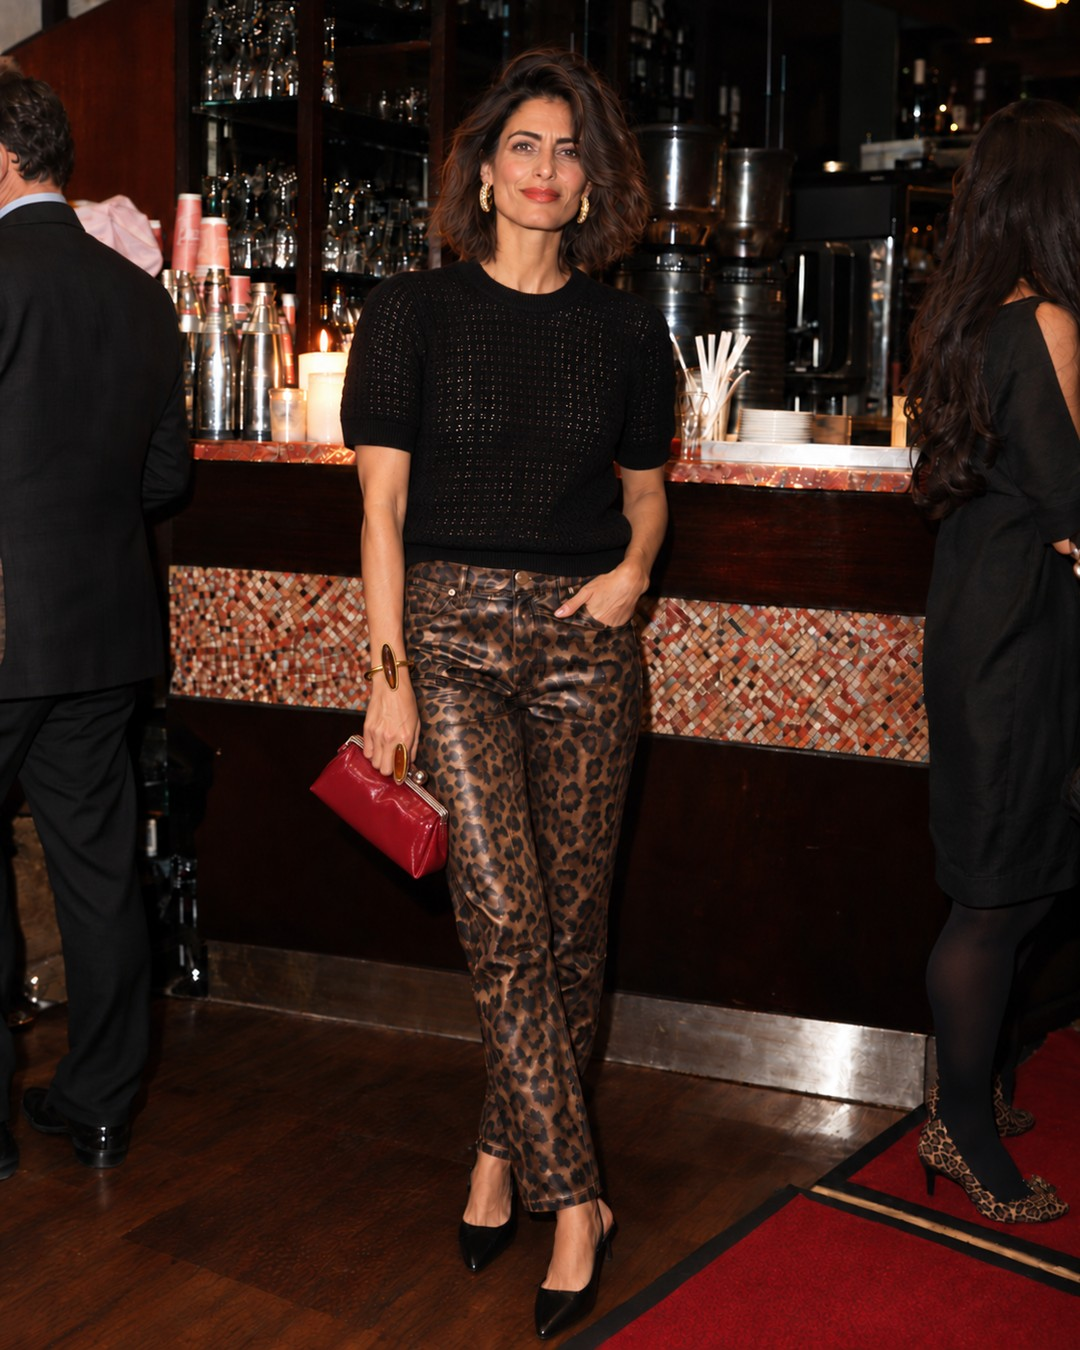
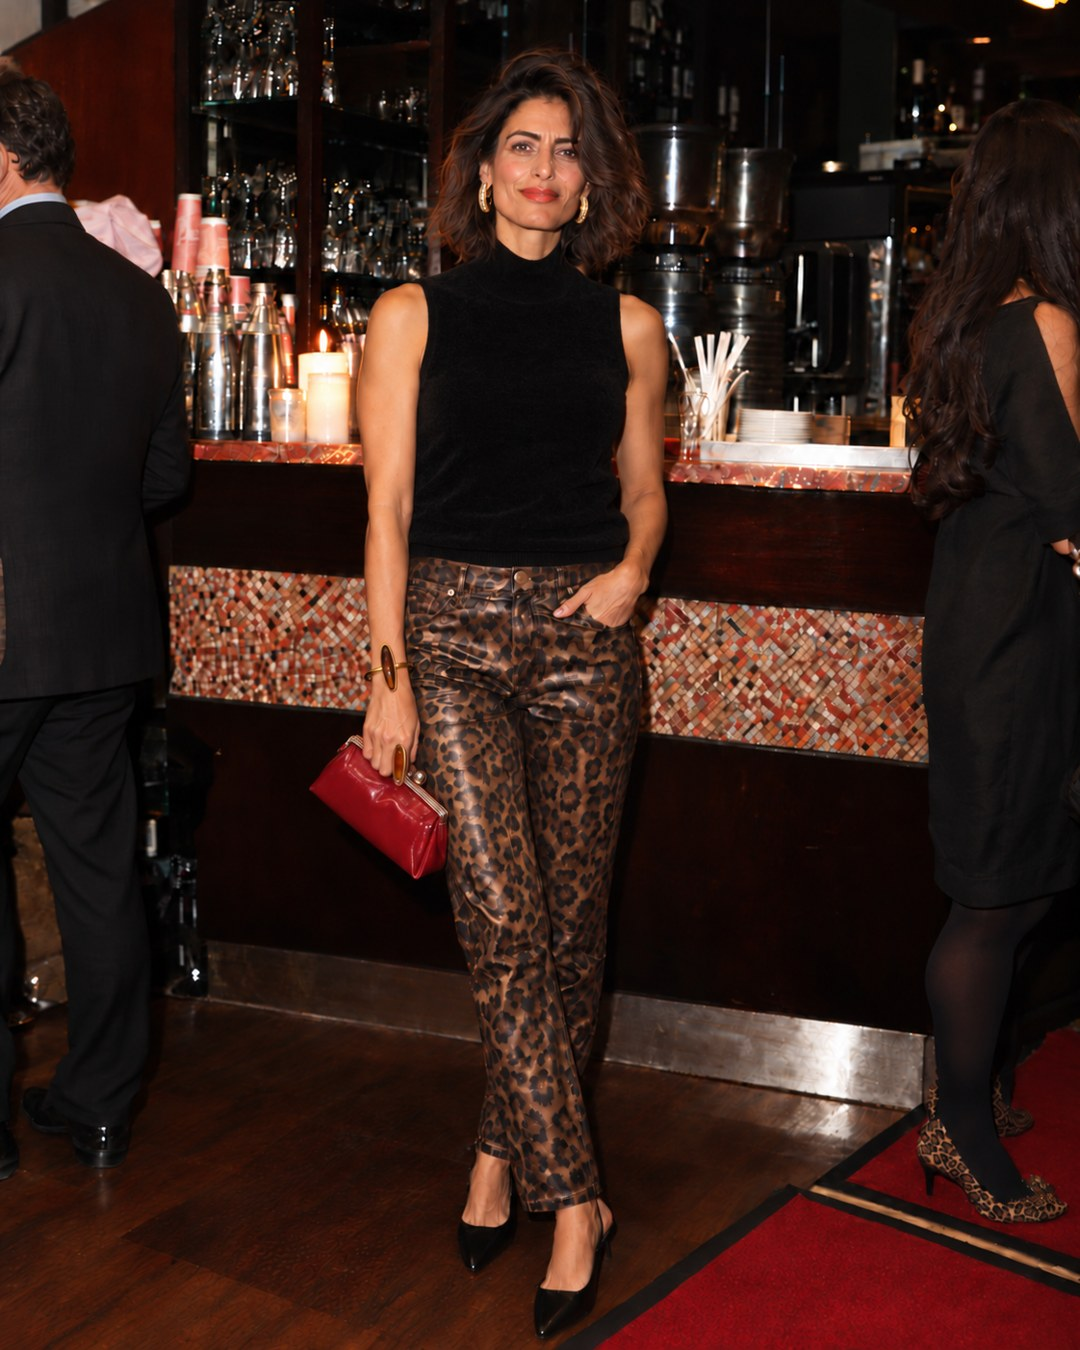
Leopard look: COS chenille top replaces Sfera

diff --git a/index.html b/index.html
@@ -59,7 +59,7 @@ const LOOKS = [
   {id:"leopard", kicker:"Look", title:"Leopard after dark", date:"12 Oct 2026", img:"leopard.jpg",
    items:[
     {b:"Zara", n:"Z1975 straight leopard jeans", p:"€39.95", u:"https://www.zara.com/es/es/jeans-z1975-straight-tiro-medio-estampado-animal-p07147225.html"},
-    {b:"Sfera", n:"Open-knit short-sleeve jumper, black", p:"€12.75", u:"https://www.elcorteingles.es/moda-mujer/A200974997-negro-pr-jersey-calado-manga-corta/"},
+    {b:"COS", n:"Chenille sleeveless high-neck top, black", p:"€79", u:"https://www.cos.com/es-es/women/womenswear/knitwear/rollneckjumpers/product/chenille-funnel-neck-vest-black-1321323001"},
     {b:"Lodi", n:"Leather slingback heels, black", p:"€159", u:"https://www.elcorteingles.es/moda-mujer/MP_0262071_KLINIC-negro-pr-zapatos-de-salon-destalonados-de-mujer-en-piel-con-tacon/"},
     {b:"Parfois", n:"Red frame clutch", p:"€29.99", u:"https://www.elcorteingles.es/moda-mujer/MP_0109561_251674BK-rojo-pr-bolso-de-fiesta-convertible-a-bandolera-estilo-clutch-con-cierre-de-boton-en-liso/"},
     {b:"Moliane", n:"Gold hoops with zircon", p:"€45", u:"https://www.elcorteingles.es/joyeria-y-relojes/A202446411-blanco-pr-pendientes-de-aro-dorados-con-circonita/"},
